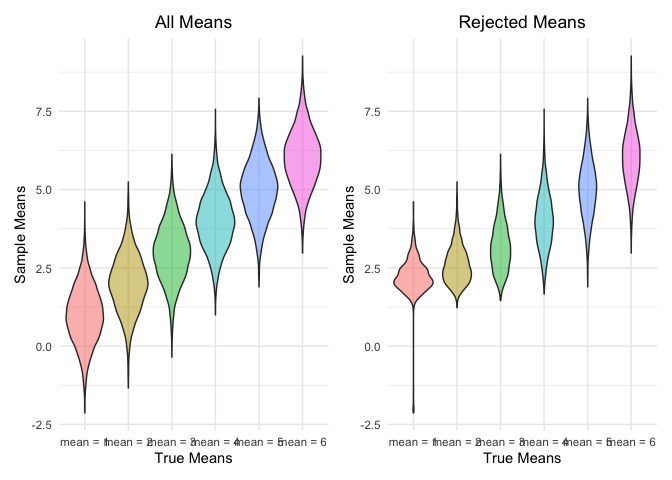
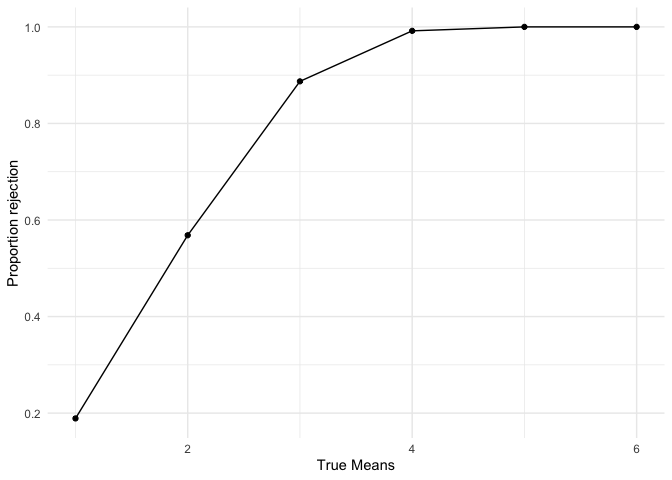
Edits to graphs

diff --git a/p8105_hw5_ll3344.md b/p8105_hw5_ll3344.md
@@ -2,7 +2,7 @@ p8105\_hw5\_ll3344
 ================
 Lusha Liang
 
-## Problem 1
+## Problem 1: Unsolved Homicides
 
 Load necessary
     packages.
@@ -51,12 +51,53 @@ library(plotly)
 library(patchwork)
 ```
 
+Set ggplot theme.
+
 ``` r
 # Minimalist theme
 theme_set(theme_minimal())
 ```
 
 Read in the data.
+
+``` r
+homicide_df = 
+  read_csv("./data/homicide_data.csv")
+```
+
+    ## Parsed with column specification:
+    ## cols(
+    ##   uid = col_character(),
+    ##   reported_date = col_double(),
+    ##   victim_last = col_character(),
+    ##   victim_first = col_character(),
+    ##   victim_race = col_character(),
+    ##   victim_age = col_character(),
+    ##   victim_sex = col_character(),
+    ##   city = col_character(),
+    ##   state = col_character(),
+    ##   lat = col_double(),
+    ##   lon = col_double(),
+    ##   disposition = col_character()
+    ## )
+
+Describe the raw data:
+
+  - The homicide data set contains 52179 rows, representing homicides in
+    50 cities across America and 12 columns which include information
+    about the homicide.
+  - The information contained about each homicide includes: uid,
+    reported\_date, victim\_last, victim\_first, victim\_race,
+    victim\_age, victim\_sex, city, state, lat, lon, disposition.
+  - The column disposition contains three possible outcomes: Closed by
+    arrest, Closed without arrest, Open/No arrest.
+  - The dates included range from 2007-2017.
+
+Next, we will create a city\_state variable that combines the city and
+state in one variable. We will then combine the disposition “Closed
+without arrest” and “Open/No arrest” into one disposition of “unsolved.”
+The remaining “Closed by arrest” homicides will be designated as
+“solved.”
 
 ``` r
 homicide_df = 
@@ -89,7 +130,8 @@ homicide_df =
     ##   disposition = col_character()
     ## )
 
-Group by city\_state variable and count total and unsolved homicides.
+We will now group by city\_state variable and count total and unsolved
+homicides.
 
 ``` r
 aggregate_df = 
@@ -103,7 +145,8 @@ aggregate_df =
 
     ## `summarise()` ungrouping output (override with `.groups` argument)
 
-Do a prop test for a single city.
+Now we will perform a prop test for a single city to estimate the
+proportion of unsolved homicides.
 
 ``` r
 prop.test(
@@ -117,7 +160,7 @@ prop.test(
     ##      <dbl>     <dbl>    <dbl>     <int>    <dbl>     <dbl> <chr>     <chr>      
     ## 1    0.646      239. 6.46e-54         1    0.628     0.663 1-sample… two.sided
 
-Iterate for multiple cities at once.
+Next, we will iterate the prop. test for multiple cities at once.
 
 ``` r
 results_df = 
@@ -131,6 +174,9 @@ results_df =
   select(city_state, estimate, conf.low, conf.high)
 ```
 
+We can plot the estimates and confidence intervals for proportion of
+unsolved homicides for each city.
+
 ``` r
 results_df %>%
   mutate(city_state = fct_reorder(city_state, estimate)) %>%
@@ -140,11 +186,16 @@ results_df %>%
   theme(axis.text.x = element_text(angle = 90, vjust = 0.5, hjust = 1)) 
 ```
 
-![](p8105_hw5_ll3344_files/figure-gfm/unnamed-chunk-7-1.png)<!-- -->
+![](p8105_hw5_ll3344_files/figure-gfm/unnamed-chunk-8-1.png)<!-- -->
 
-## Problem 2
+## Problem 2: Longitudinal Study Data
 
-Load and tidy the data.
+Load and tidy the data. This involves compiling each spreadsheet into a
+list while keeping the title of the spreadsheet, since this also
+contains information about the subject ID and the control vs
+experimental group. Then to make the dataset tidy we pivot\_longer so
+that the week number and values obtained are in contained in separate
+columns.
 
 ``` r
 lga_df = 
@@ -408,29 +459,27 @@ lga_df %>%
   scale_colour_viridis_d()
 ```
 
-![](p8105_hw5_ll3344_files/figure-gfm/unnamed-chunk-9-1.png)<!-- -->
+![](p8105_hw5_ll3344_files/figure-gfm/unnamed-chunk-10-1.png)<!-- -->
 
 ``` r
-lga_df %>%
-  mutate(text_label = str_c("Study ID: ", id, "\nGroup:", group)) %>%
-  plot_ly(
-    x = ~week, y = ~observations, color = ~id,
-    colors = "viridis", type = "scatter",
-    mode = "line", text = ~text_label
-  )
+# We could also make a plot-ly plot:
+#lga_df %>%
+#   mutate(text_label = str_c("Study ID: ", id, "\nGroup:", group)) %>%
+#   plot_ly(
+#     x = ~week, y = ~observations, color = ~id,
+#     colors = "viridis", type = "scatter",
+#     mode = "line", text = ~text_label
+#   )
 ```
-
-    ## Warning: `arrange_()` is deprecated as of dplyr 0.7.0.
-    ## Please use `arrange()` instead.
-    ## See vignette('programming') for more help
-    ## This warning is displayed once every 8 hours.
-    ## Call `lifecycle::last_warnings()` to see where this warning was generated.
-
-![](p8105_hw5_ll3344_files/figure-gfm/unnamed-chunk-9-2.png)<!-- -->
 
 In general, the experimental arm has higher values for the observations.
 
-## Problem 3
+## Problem 3: Power
+
+First, we will generate 5000 datasets from a normal distribution with n
+= 30, mean = 0, and standard deviation = 5. Next, we will create a
+function that outputs the estimate and p value from running a two-sided
+t-test with the null hypothesis of mu = 0.
 
 ``` r
 set.seed(1)
@@ -450,6 +499,8 @@ sim_results =
   rerun(5000, sim_mean_p(mean = 0)) %>%
   bind_rows()
 ```
+
+We will now repeat the above process for different means between 1-6.
 
 ``` r
 mean_list = 
@@ -471,6 +522,12 @@ sim_vary_means =
       unnest(estimate_dfs)
 ```
 
+Finally, we will plot the proportions of times the null was rejected
+versus true mu. The plot shows that as the true mean increases away from
+0 (effect size increases), the proportion of times the null was rejected
+(the power) increases. At an effect size of around 4, the power
+approaches 1.
+
 ``` r
 sim_vary_means %>%
   filter(p.value < 0.05) %>%
@@ -479,10 +536,17 @@ sim_vary_means %>%
   mutate(prop = n/5000) %>%
   ggplot(aes(x = diff_means, y = prop)) +
   geom_line() +
-  geom_point()
+  geom_point() + 
+  xlab("True Means") + 
+  ylab("Proportion rejection")
 ```
 
-![](p8105_hw5_ll3344_files/figure-gfm/unnamed-chunk-12-1.png)<!-- -->
+![](p8105_hw5_ll3344_files/figure-gfm/unnamed-chunk-13-1.png)<!-- -->
+
+Now we will make a plot showing the average estimate of the mean on the
+y axis and the true value of mu on the x axis. The second plot shows the
+average estimate of the mean on the y axis only in samples for which the
+null was rejected and the true value of mu on the x axis.
 
 ``` r
 all_means_p = 
@@ -496,7 +560,9 @@ all_means_p =
   ylab("Sample Means") +
   theme(legend.position = "none") + 
   ggtitle("All Means") +
-  theme(plot.title = element_text(hjust = 0.5))
+  theme(plot.title = element_text(hjust = 0.5)) +
+  theme(axis.text.x = element_text(angle = 90, vjust = 0.5, hjust=1)) + 
+  stat_summary(fun = "mean", color = "black")
 
 rejected_means_p =
   sim_vary_means %>%
@@ -510,9 +576,24 @@ rejected_means_p =
   ylab("Sample Means") +
   theme(legend.position = "none") + 
   ggtitle("Rejected Means") +
-  theme(plot.title = element_text(hjust = 0.5))
+  theme(plot.title = element_text(hjust = 0.5)) +
+  theme(axis.text.x = element_text(angle = 90, vjust = 0.5, hjust=1)) + 
+  stat_summary(fun = "mean", color = "black")
 
 all_means_p + rejected_means_p
 ```
 
-![](p8105_hw5_ll3344_files/figure-gfm/unnamed-chunk-13-1.png)<!-- -->
+    ## Warning: Removed 6 rows containing missing values (geom_segment).
+    
+    ## Warning: Removed 6 rows containing missing values (geom_segment).
+
+![](p8105_hw5_ll3344_files/figure-gfm/unnamed-chunk-14-1.png)<!-- -->
+
+The second plot shows that the sample average of mu across tests for
+which the null is rejected is higher than the true mean for smaller true
+means but approaches the true mean as the true mean gets larger. This
+makes sense as almost all samples of true mean 6, for example, will be
+rejected. However, as we saw in the previous plot, for true mean of 1,
+only 20% of samples will be rejected and these samples will have a
+higher mean than 1. As the current plot shows, the mean of rejected
+samples falls around 2.5 with true mean 0.
